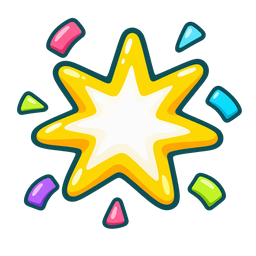
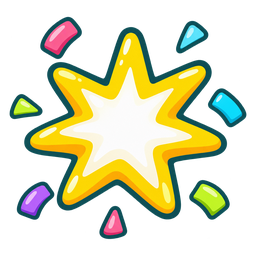
¡Defensa!: all ten ChatGPT effect pictures
pop, hit, puff, boom, ink, sparkle, confetti, ¡PUM!, tink and smoke replace the stand-in drawings
(trimmed and sized to 256 px; cached for offline play).

Claude-Session: https://claude.ai/code/session_01GncovYrvNs7vuSceL7iXms

Changed region(s): [[0.0312, 0.0625, 0.9688, 0.9375]]

diff --git a/palabras/sw.js b/palabras/sw.js
@@ -1,8 +1,8 @@
 // ¡Hola, Palabras! offline support.
 // The page itself: network first (so updates show up), cached copy when offline.
 // Dora's sound packs and fonts: cache first (they never change for a given version).
-const VERSION = 'palabras-v41';
-const CORE = ['./', './index.html', './manifest.webmanifest', './icon-192.png', './icon-512.png', './apple-touch-icon.png', './audio/common.json', './audio/common.mp3', './css/palabras.css?v=41', './js/words.js?v=41', './js/riddles.js?v=41', './js/content7.js?v=41', './js/units.js?v=41', './js/core.js?v=41', './js/pet.js?v=41', './js/home.js?v=41', './js/tarea.js?v=41', './js/run.js?v=41', './js/word-games.js?v=41', './js/arcade.js?v=41', './js/defensa.js?v=41', './js/app.js?v=41', './js/test.js?v=41', './monster3d.js?v=41', './lolo3d.js?v=41', './defensa3d.js?v=41', './defensa-rules.js?v=41', './defensa-bt.js?v=41', './defensa.html', './art/defensa/grass.jpg', './art/defensa/sand.jpg', './art/defensa/snow.jpg', './art/defensa/trail.jpg', './art/defensa/sky-jardin.jpg', './art/defensa/sky-playa.jpg', './art/defensa/sky-nieve.jpg', './art/defensa/logo.png', './art/defensa/ui/bowl.png', './art/defensa/ui/coin.png', './art/defensa/ui/medal.png', './art/defensa/ui/map.png', './art/defensa/ui/play.png', './art/defensa/ui/fast.png', './art/defensa/ui/upgrade.png', './art/defensa/ui/sell.png', './art/defensa/ui/lock.png', './art/defensa/ui/star.png', './art/defensa/ui/trophy.png', './art/defensa/ui/retry.png', './art/defensa/fx/pop.png', './art/fonts/fredoka-latin-600-normal.woff2', './art/fonts/fredoka-latin-700-normal.woff2', './audio/defensa.json', './audio/defensa.mp3', './lib/three.module.min.js'];
+const VERSION = 'palabras-v42';
+const CORE = ['./', './index.html', './manifest.webmanifest', './icon-192.png', './icon-512.png', './apple-touch-icon.png', './audio/common.json', './audio/common.mp3', './css/palabras.css?v=42', './js/words.js?v=42', './js/riddles.js?v=42', './js/content7.js?v=42', './js/units.js?v=42', './js/core.js?v=42', './js/pet.js?v=42', './js/home.js?v=42', './js/tarea.js?v=42', './js/run.js?v=42', './js/word-games.js?v=42', './js/arcade.js?v=42', './js/defensa.js?v=42', './js/app.js?v=42', './js/test.js?v=42', './monster3d.js?v=42', './lolo3d.js?v=42', './defensa3d.js?v=42', './defensa-rules.js?v=42', './defensa-bt.js?v=42', './defensa.html', './art/defensa/grass.jpg', './art/defensa/sand.jpg', './art/defensa/snow.jpg', './art/defensa/trail.jpg', './art/defensa/sky-jardin.jpg', './art/defensa/sky-playa.jpg', './art/defensa/sky-nieve.jpg', './art/defensa/logo.png', './art/defensa/ui/bowl.png', './art/defensa/ui/coin.png', './art/defensa/ui/medal.png', './art/defensa/ui/map.png', './art/defensa/ui/play.png', './art/defensa/ui/fast.png', './art/defensa/ui/upgrade.png', './art/defensa/ui/sell.png', './art/defensa/ui/lock.png', './art/defensa/ui/star.png', './art/defensa/ui/trophy.png', './art/defensa/ui/retry.png', './art/defensa/fx/pop.png', './art/defensa/fx/hit.png', './art/defensa/fx/puff.png', './art/defensa/fx/boom.png', './art/defensa/fx/ink.png', './art/defensa/fx/sparkle.png', './art/defensa/fx/confetti.png', './art/defensa/fx/pum.png', './art/defensa/fx/tink.png', './art/defensa/fx/smoke.png', './art/fonts/fredoka-latin-600-normal.woff2', './art/fonts/fredoka-latin-700-normal.woff2', './audio/defensa.json', './audio/defensa.mp3', './lib/three.module.min.js'];
 
 self.addEventListener('install', e => {
   e.waitUntil(caches.open(VERSION).then(c => c.addAll(CORE.map(u => new Request(u, { cache: 'reload' })))).then(() => self.skipWaiting()));

diff --git a/palabras/index.html b/palabras/index.html
@@ -14,7 +14,7 @@
 <title>¡Hola, Palabras!</title>
 <link rel="preconnect" href="https://fonts.googleapis.com">
 <link href="https://fonts.googleapis.com/css2?family=Fredoka:wght@400;600;700&display=swap" rel="stylesheet">
-<link rel="stylesheet" href="css/palabras.css?v=41">
+<link rel="stylesheet" href="css/palabras.css?v=42">
 </head>
 <body>
 <header>
@@ -434,22 +434,22 @@
 </div>
 
 <!-- Game code, in load order. Each file can use what the files above it define. -->
-<script src="js/words.js?v=41"></script>
-<script src="js/riddles.js?v=41"></script>
-<script src="js/content7.js?v=41"></script>
-<script src="js/units.js?v=41"></script>
-<script src="js/core.js?v=41"></script>
-<script src="js/pet.js?v=41"></script>
-<script src="js/home.js?v=41"></script>
-<script src="js/tarea.js?v=41"></script>
-<script src="js/run.js?v=41"></script>
-<script src="js/word-games.js?v=41"></script>
-<script src="js/arcade.js?v=41"></script>
-<script src="js/defensa.js?v=41"></script>
-<script src="js/app.js?v=41"></script>
-<script src="js/test.js?v=41"></script>
-<script type="module" src="monster3d.js?v=41"></script>
-<script type="module" src="lolo3d.js?v=41"></script>
-<script type="module" src="defensa3d.js?v=41"></script>
+<script src="js/words.js?v=42"></script>
+<script src="js/riddles.js?v=42"></script>
+<script src="js/content7.js?v=42"></script>
+<script src="js/units.js?v=42"></script>
+<script src="js/core.js?v=42"></script>
+<script src="js/pet.js?v=42"></script>
+<script src="js/home.js?v=42"></script>
+<script src="js/tarea.js?v=42"></script>
+<script src="js/run.js?v=42"></script>
+<script src="js/word-games.js?v=42"></script>
+<script src="js/arcade.js?v=42"></script>
+<script src="js/defensa.js?v=42"></script>
+<script src="js/app.js?v=42"></script>
+<script src="js/test.js?v=42"></script>
+<script type="module" src="monster3d.js?v=42"></script>
+<script type="module" src="lolo3d.js?v=42"></script>
+<script type="module" src="defensa3d.js?v=42"></script>
 </body>
 </html>

diff --git a/palabras/defensa3d.js b/palabras/defensa3d.js
@@ -8,7 +8,7 @@
 // Graphics are easy to swap: pictures live in art/defensa/ (by name), and a model listed in art/defensa/models/models.json
 // (e.g. { "gato": "gato.glb" }) replaces the built-in model of that tower or critter.
 import * as THREE from './lib/three.module.min.js';
-import { Game, TOWERS, WALL, FOES, COLS, ROWS, MARGIN, newFoes, newPath, distToPaths, AGES, bu, SIZE, POWERS, firstHidden } from './defensa-rules.js?v=41';
+import { Game, TOWERS, WALL, FOES, COLS, ROWS, MARGIN, newFoes, newPath, distToPaths, AGES, bu, SIZE, POWERS, firstHidden } from './defensa-rules.js?v=42';
 
 // ====================================================================================
 // materials
@@ -427,7 +427,7 @@ function tex(name){
 // When a picture exists in art/defensa/fx/<name>.png, list its name in FX_ART and it's used;
 // until then a simple drawing stands in.
 // ====================================================================================
-const FX_ART = new Set(['pop']);
+const FX_ART = new Set(['pop', 'hit', 'puff', 'boom', 'ink', 'sparkle', 'confetti', 'pum', 'tink', 'smoke']);
 const fxTex = {};
 function fxDraw(name){
   const S = 128, cv = document.createElement('canvas'); cv.width = cv.height = S; const c = cv.getContext('2d'), O = '#1E5560';

diff --git a/palabras/defensa-rules.js b/palabras/defensa-rules.js
@@ -12,7 +12,7 @@
 // Each critter knocked out pays a coin; each round you finish pays 100 + the round. The rounds are Bloons TD 6's
 // standard rounds, and Easy / Medium / Hard are Bloons' (4–5 plays Easy, 7 Medium, 10 Hard).
 
-import { BT } from './defensa-bt.js?v=41';
+import { BT } from './defensa-bt.js?v=42';
 export const U = 13.33;                                   // Bloons units per board unit
 export const bu = v => v / U;                             // Bloons units → board units
 export const COLS = 24, ROWS = 17, MARGIN = 1.1;          // play area 320×227 BU, landscape; the island reaches MARGIN past it

diff --git a/palabras/defensa.html b/palabras/defensa.html
@@ -40,8 +40,8 @@
 </div>
 <div id="game"></div>
 <script type="module">
-  import './lolo3d.js?v=41';
-  import './defensa3d.js?v=41';
+  import './lolo3d.js?v=42';
+  import './defensa3d.js?v=42';
   const PETS = { axolotl:'Lolo', penguin:'Pipo', fox:'Chispa', seal:'Nieve' };
   const st = Object.assign({ age: 7, map: 0, pet: 'axolotl', saves: {} }, JSON.parse(localStorage.getItem('tdtest2') || '{}'));
   const save = () => localStorage.setItem('tdtest2', JSON.stringify(st));
